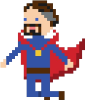
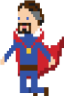
Resizing our player

diff --git a/player.py b/player.py
@@ -6,11 +6,11 @@ import pyganim
 import os
 
 MOVE_SPEED = 7
-WIDTH = 85
-HEIGHT = 100
+WIDTH = 64
+HEIGHT = 96
 COLOR =  "#888888"
 JUMP_POWER = 10
-GRAVITY = 0.35 
+GRAVITY = 0.2 
 ANIMATION_DELAY = 0.1
 ICON_DIR = os.path.dirname(__file__)
 
